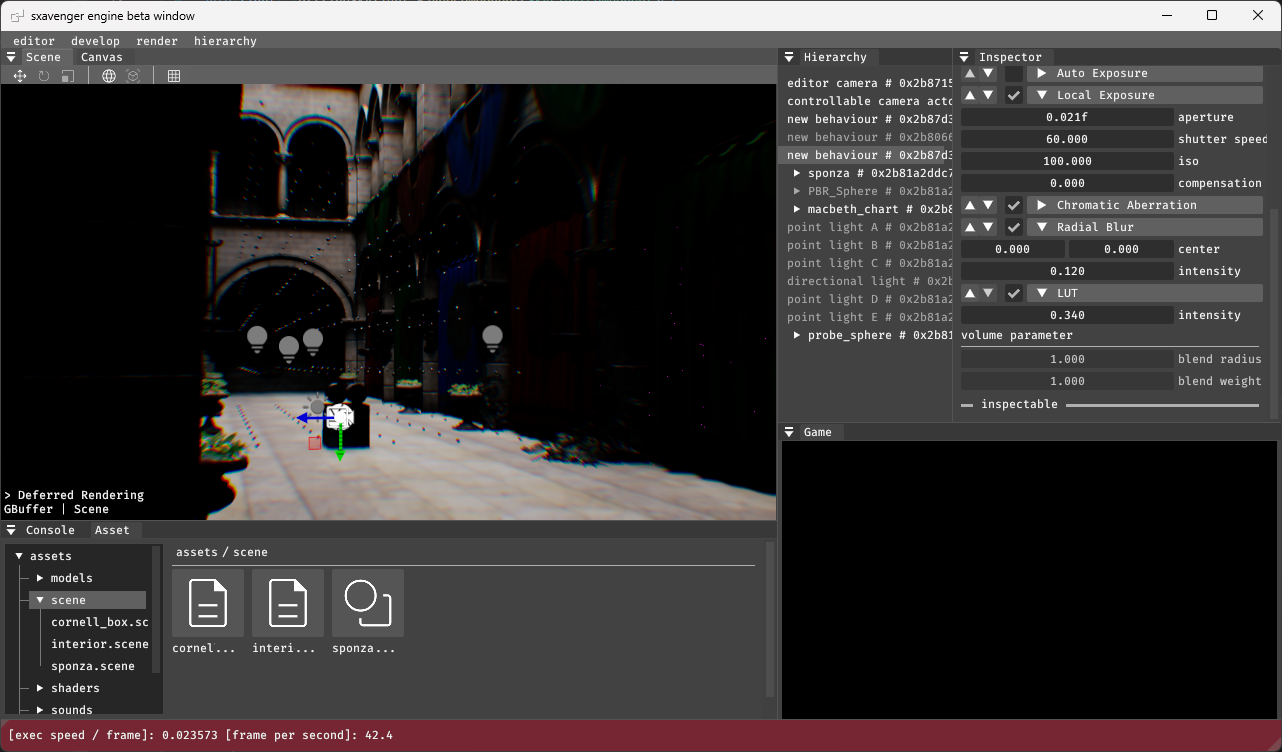
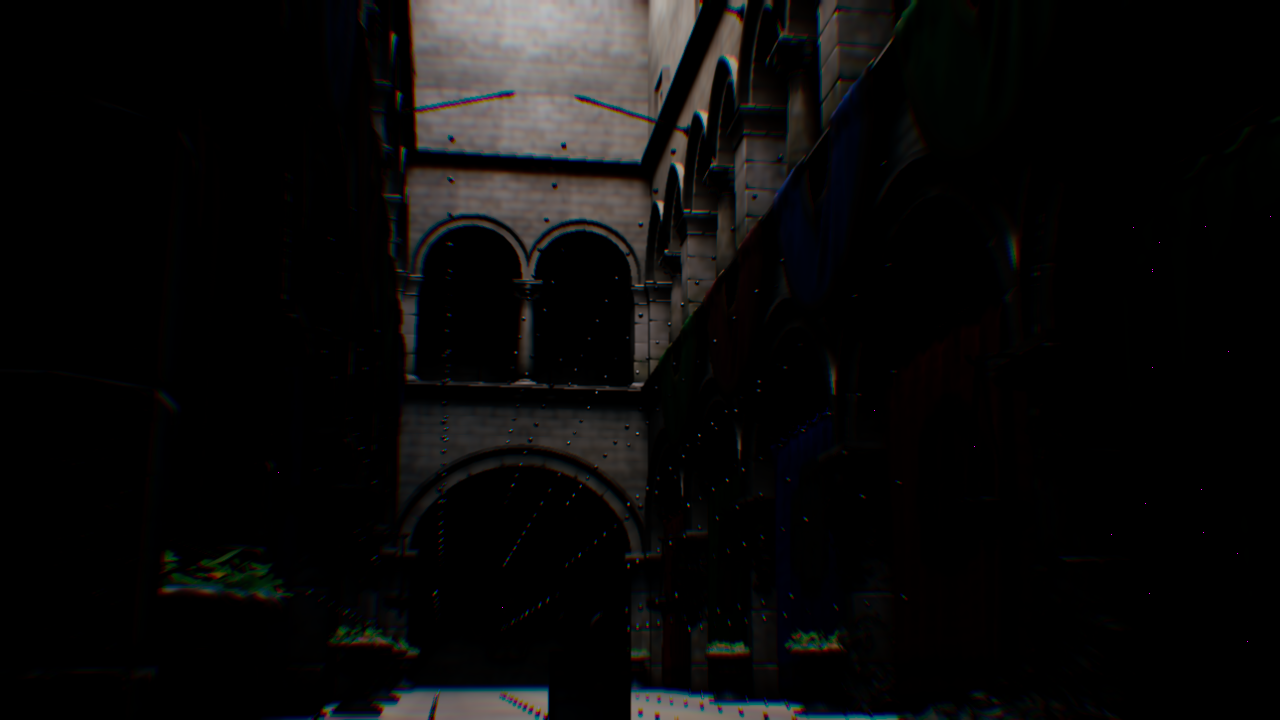
Exporterの修正

diff --git a/project/Engine/Editor/Editors/RenderSceneEditor.cpp b/project/Engine/Editor/Editors/RenderSceneEditor.cpp
@@ -9,6 +9,7 @@
 //* engine
 #include <Engine/System/UI/SxImGui.h>
 #include <Engine/System/UI/SxImGuizmo.h>
+#include <Engine/Content/Exporter/TextureExporter.h>
 #include <Engine/Content/SxavengerContent.h>
 #include <Engine/Component/Components/Transform/TransformComponent.h>
 #include <Engine/Component/Components/SpriteRenderer/SpriteRendererComponent.h>
@@ -378,10 +379,16 @@ void RenderSceneEditor::ShowCaptureMenu() {
 		MenuPadding();
 		ImGui::SeparatorText("capture");
 
-		//if (ImGui::Button("scene window capture")) {
-		//	textures_->CaptureGBuffer(FRenderTargetTextures::GBufferLayout::Main, SxavengerSystem::GetDirectQueueContext(), "capture_scene.png");
-		//}
-		//
+		if (ImGui::Button("scene window capture")) {
+			TextureExporter::Export(
+				SxavengerSystem::GetDirectQueueContext(),
+				TextureExporter::TextureDimension::Texture2D,
+				textures_->GetGBuffer(FMainGBuffer::Layout::Scene)->GetResource(),
+				DxObject::kDefaultScreenViewFormat,
+				"capture_scene.png"
+			);
+		}
+		
 		//if (ImGui::Button("game window capture")) {
 		//	FMainRender::GetInstance()->GetTextures()->CaptureGBuffer(FRenderTargetTextures::GBufferLayout::Main, SxavengerSystem::GetDirectQueueContext(), "capture_game.png");
 		//}

diff --git a/project/Demo/GameLoop/BetaSystemGameLoop.cpp b/project/Demo/GameLoop/BetaSystemGameLoop.cpp
@@ -104,6 +104,10 @@ void BetaSystemGameLoop::InitSystem() {
 	behaviour_->GetComponent<PostProcessLayerComponent>()->AddPostProcess<PostProcessChromaticAberration>();
 	behaviour_->GetComponent<PostProcessLayerComponent>()->AddPostProcess<PostProcessRadialBlur>();
 
+	SxavengerAsset::TryImport<AssetTexture>("assets/textures/LUT/lut_greenish.png", Texture::Option{ Texture::Encoding::Intensity, false });
+	SxavengerAsset::TryImport<AssetTexture>("assets/textures/LUT/lut_reddish.png", Texture::Option{ Texture::Encoding::Intensity, false });
+	SxavengerAsset::TryImport<AssetTexture>("assets/textures/LUT/lut_sepia.png", Texture::Option{ Texture::Encoding::Intensity, false });
+
 	auto texture = SxavengerAsset::TryImport<AssetTexture>("assets/textures/LUT/lut_reddish.png", Texture::Option{ Texture::Encoding::Intensity, false });
 	auto lut = behaviour_->GetComponent<PostProcessLayerComponent>()->AddPostProcess<PostProcessLUT>();
 	lut->CreateTexture(SxavengerSystem::GetDirectQueueContext(), texture, { 16, 16 });

diff --git a/project/Engine/Content/Exporter/TextureExporter.cpp b/project/Engine/Content/Exporter/TextureExporter.cpp
@@ -24,7 +24,7 @@ void TextureExporter::Export(
 	D3D12_RESOURCE_DESC textureDesc = texture->GetDesc();
 
 	// imageの生成
-	DirectX::ScratchImage image = GetImage(dimension, format, textureDesc);
+	DirectX::ScratchImage image = GetImage(dimension, textureDesc.Format, textureDesc);
 	const UINT kImageCount = static_cast<UINT>(image.GetImageCount());
 
 	// image情報の取得
@@ -107,6 +107,22 @@ void TextureExporter::Export(
 		}
 	
 		readback->Unmap(0, nullptr);
+	}
+
+	// imageのformat変換
+	if (format != image.GetMetadata().format) {
+
+		DirectX::ScratchImage converted = {};
+
+		auto hr = DirectX::Convert(
+			image.GetImages(), image.GetImageCount(), image.GetMetadata(),
+			format, DirectX::TEX_FILTER_DEFAULT, DirectX::TEX_THRESHOLD_DEFAULT,
+			converted
+		);
+
+		Exception::Assert(SUCCEEDED(hr), "image convert failed.");
+
+		image = std::move(converted);
 	}
 
 	ExportTexture(filepath, image);
